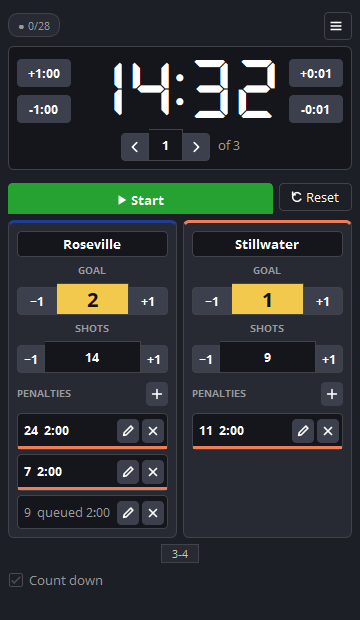
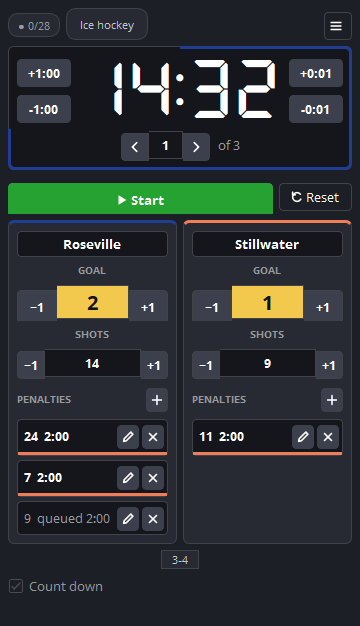
docs: README and changelog for the dock menu, sport pill and optional looks

diff --git a/README.md b/README.md
@@ -22,6 +22,7 @@
   <tr>
     <td align="center"><img src="docs/images/dock-hockey.png" width="324" alt="The ScoreBoard dock in OBS Studio: ice hockey, dark theme"><br><sub>Ice hockey, OBS dark theme</sub></td>
     <td align="center"><img src="docs/images/dock-soccer-light.png" width="324" alt="The ScoreBoard dock in OBS Studio: soccer, light theme"><br><sub>Soccer, OBS light theme</sub></td>
+    <td align="center"><img src="docs/images/dock-custom.png" width="324" alt="The dock with custom team colors, a progress border and a clock that turns red"><br><sub>Optional looks: team colors, progress border, clock color</sub></td>
   </tr>
 </table>
 
@@ -87,7 +88,7 @@ checksums and a build attestation: `gh attestation verify <file> --repo angeloru
 
 ### Getting started
 
-1. Add a **Text** source for the clock, or create it from the dock menu: **⋮ → Source links… → +**.
+1. Add a **Text** source for the clock, or create it from the dock menu: **⋮ → Settings → Source links… → +**.
 2. In *Source links…*, pick it for **Clock** (repeat for any other value).
 3. Press **Start**.
 
@@ -106,8 +107,17 @@ Enable the server under **Tools → WebSocket Server Settings**. The Stream Deck
 | Feature | Where | Behavior |
 |---|---|---|
 | File output | *Match settings → Output* | Off by default. One `.txt` per value in a folder you choose, rewritten only when its content changes. |
-| Event log | Dock menu → *Event log…* | Lists events with times; exports YouTube chapters (`0:00 Title`) from stream start, recording start or game time, as text. |
-| Update check | Dock menu → *Check for updates at start* | Once per start; sends only the plugin version; notifies, never installs. |
+| Event log | Dock menu → *Match → Event log…* | Lists events with times; exports YouTube chapters (`0:00 Title`) from stream start, recording start or game time, as text. |
+| Update check | Dock menu → *Updates* | *Check for updates now* asks GitHub on demand; *Check for updates at start* does it once per start. Sends only the plugin version; notifies, never installs. |
+
+### Look
+
+| Feature | Where | Behavior |
+|---|---|---|
+| Sport | Dock header | The sport of the match is always shown next to the link indicator. |
+| Team colors | *Match settings → Look* | Accent color of each team card; "Default" restores blue and orange. |
+| Period progress | *Match settings → Look → Period progress* | The border of the clock frame shrinks with the time left (or fills with the time played). On by default; color and mode are yours, or turn it off. |
+| Clock color | *Match settings → Look → Clock digits* | Off by default. One color, or up to four steps by time left (for example amber at 1:00, red at 0:30), optionally blended. |
 
 ### Build from source
 
@@ -187,7 +197,7 @@ SHA-256 e un'attestazione della build: `gh attestation verify <file> --repo ange
 
 ### Primi passi
 
-1. Aggiungi una sorgente **Text** per il cronometro, oppure creala dal menu del pannello: **⋮ → Collegamenti sorgenti… → +**.
+1. Aggiungi una sorgente **Text** per il cronometro, oppure creala dal menu del pannello: **⋮ → Impostazioni → Collegamenti sorgenti… → +**.
 2. In *Collegamenti sorgenti…* scegli quella sorgente per il **Cronometro** (e per gli altri valori che vuoi mostrare).
 3. Premi **Avvia**.
 
@@ -206,8 +216,17 @@ Attiva il server da **Strumenti → Impostazioni server WebSocket**. Il plugin S
 | Funzione | Dove | Comportamento |
 |---|---|---|
 | Output su file | *Impostazioni partita → Output* | Spento di default. Un `.txt` per valore nella cartella scelta, riscritto solo se il contenuto cambia. |
-| Registro eventi | Menu del pannello → *Registro eventi…* | Elenca gli eventi con l'orario; esporta i capitoli YouTube (`0:00 Titolo`) da inizio diretta, inizio registrazione o tempo di gioco, come testo. |
-| Controllo aggiornamenti | Menu del pannello → *Controlla gli aggiornamenti all'avvio* | Una volta per avvio; invia solo la versione del plugin; avvisa, non installa. |
+| Registro eventi | Menu del pannello → *Partita → Registro eventi…* | Elenca gli eventi con l'orario; esporta i capitoli YouTube (`0:00 Titolo`) da inizio diretta, inizio registrazione o tempo di gioco, come testo. |
+| Controllo aggiornamenti | Menu del pannello → *Aggiornamenti* | *Controlla aggiornamenti ora* interroga GitHub su richiesta; *Controlla gli aggiornamenti all'avvio* lo fa una volta per avvio. Invia solo la versione del plugin; avvisa, non installa. |
+
+### Aspetto
+
+| Funzione | Dove | Comportamento |
+|---|---|---|
+| Sport | Intestazione del pannello | Lo sport della partita è sempre visibile accanto all'indicatore dei collegamenti. |
+| Colori squadra | *Impostazioni partita → Aspetto* | Colore d'accento della scheda di ogni squadra; "Predefinito" ripristina blu e arancione. |
+| Avanzamento del periodo | *Impostazioni partita → Aspetto → Avanzamento del periodo* | Il bordo del riquadro del cronometro si accorcia col tempo rimanente (o si riempie col tempo giocato). Attivo di default; colore e modalità a scelta, oppure spento. |
+| Colore del cronometro | *Impostazioni partita → Aspetto → Cifre del cronometro* | Spento di default. Un solo colore, oppure fino a quattro passaggi in base al tempo rimanente (ad esempio ambra a 1:00, rosso a 0:30), anche sfumati. |
 
 ### Compilare dai sorgenti
 

diff --git a/CHANGELOG.md b/CHANGELOG.md
@@ -12,8 +12,16 @@ this project adheres to [Semantic Versioning](https://semver.org/spec/v2.0.0.htm
 - A new look for the dock and every window: one button style with a single height, segmented `[ -1 | 2 | +1 ]` counters with a larger score button, the clock in a framed display with the period and stoppage steppers under it, a card per team with its own accent color, icons drawn by the plugin (menu, plus, pencil, cross, play/pause, reset) instead of text glyphs, and a thin bar of the time left under each running penalty. Colors now come from the OBS theme, so the dock and the windows follow the dark and light themes (and the others OBS ships); only start green, stop red and the score and foul colors stay fixed.
 - Match settings, Penalty and Source links windows share the same look (tabs with an underline, a highlighted OK, colored swatches that show the color in use).
 
+- The dock menu is organized in sections (Match, Settings, Output, Updates). The About window is gone: the version is the last line of the Updates section.
+
 ### Added
 
+- *Check for updates now* in the dock menu, with a message for "up to date" and for "could not check".
+- The sport of the match is shown in the dock header.
+- Custom accent color for each team card (*Match settings → Look*).
+- A progress border around the clock: it shrinks with the time left of the period (or fills with the time played). On by default; mode and color in *Match settings → Look*, or off.
+- Clock color: off by default; one color, or steps by time left (for example amber at 1:00 and red at 0:30, up to four), optionally blended.
+- Penalty types in the add-penalty window are chips instead of a drop-down.
 - *Match settings → Look → Dock density*: Compact (as before) or Comfortable (taller buttons and fields).
 
 ## [1.0.0] - 2026-10-19
